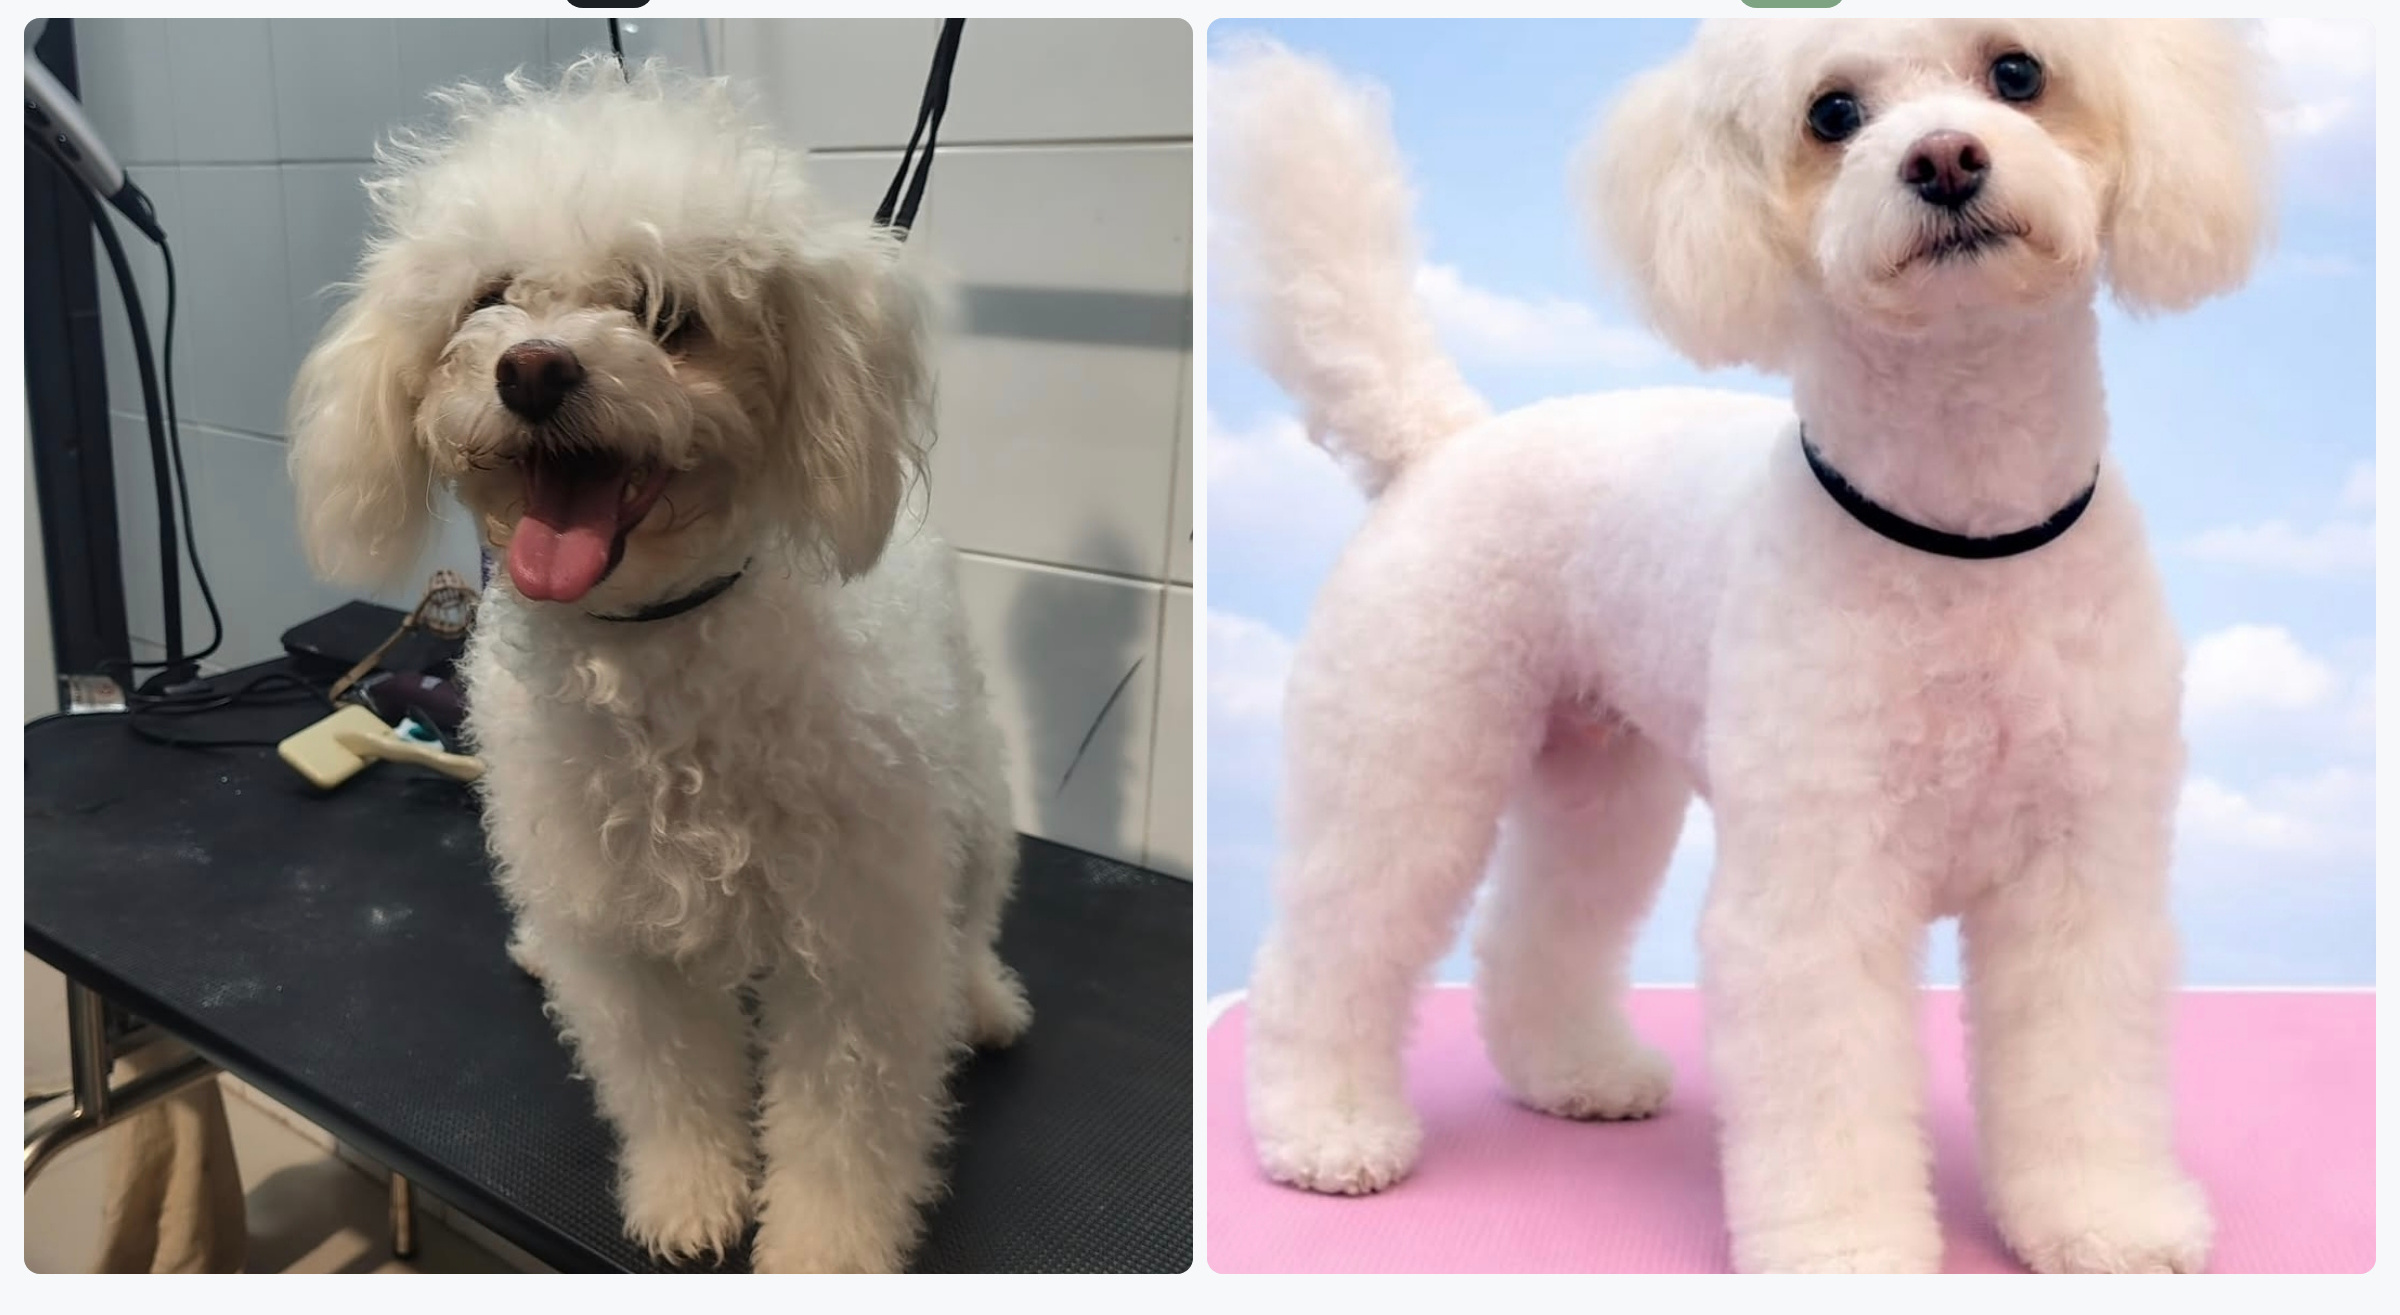
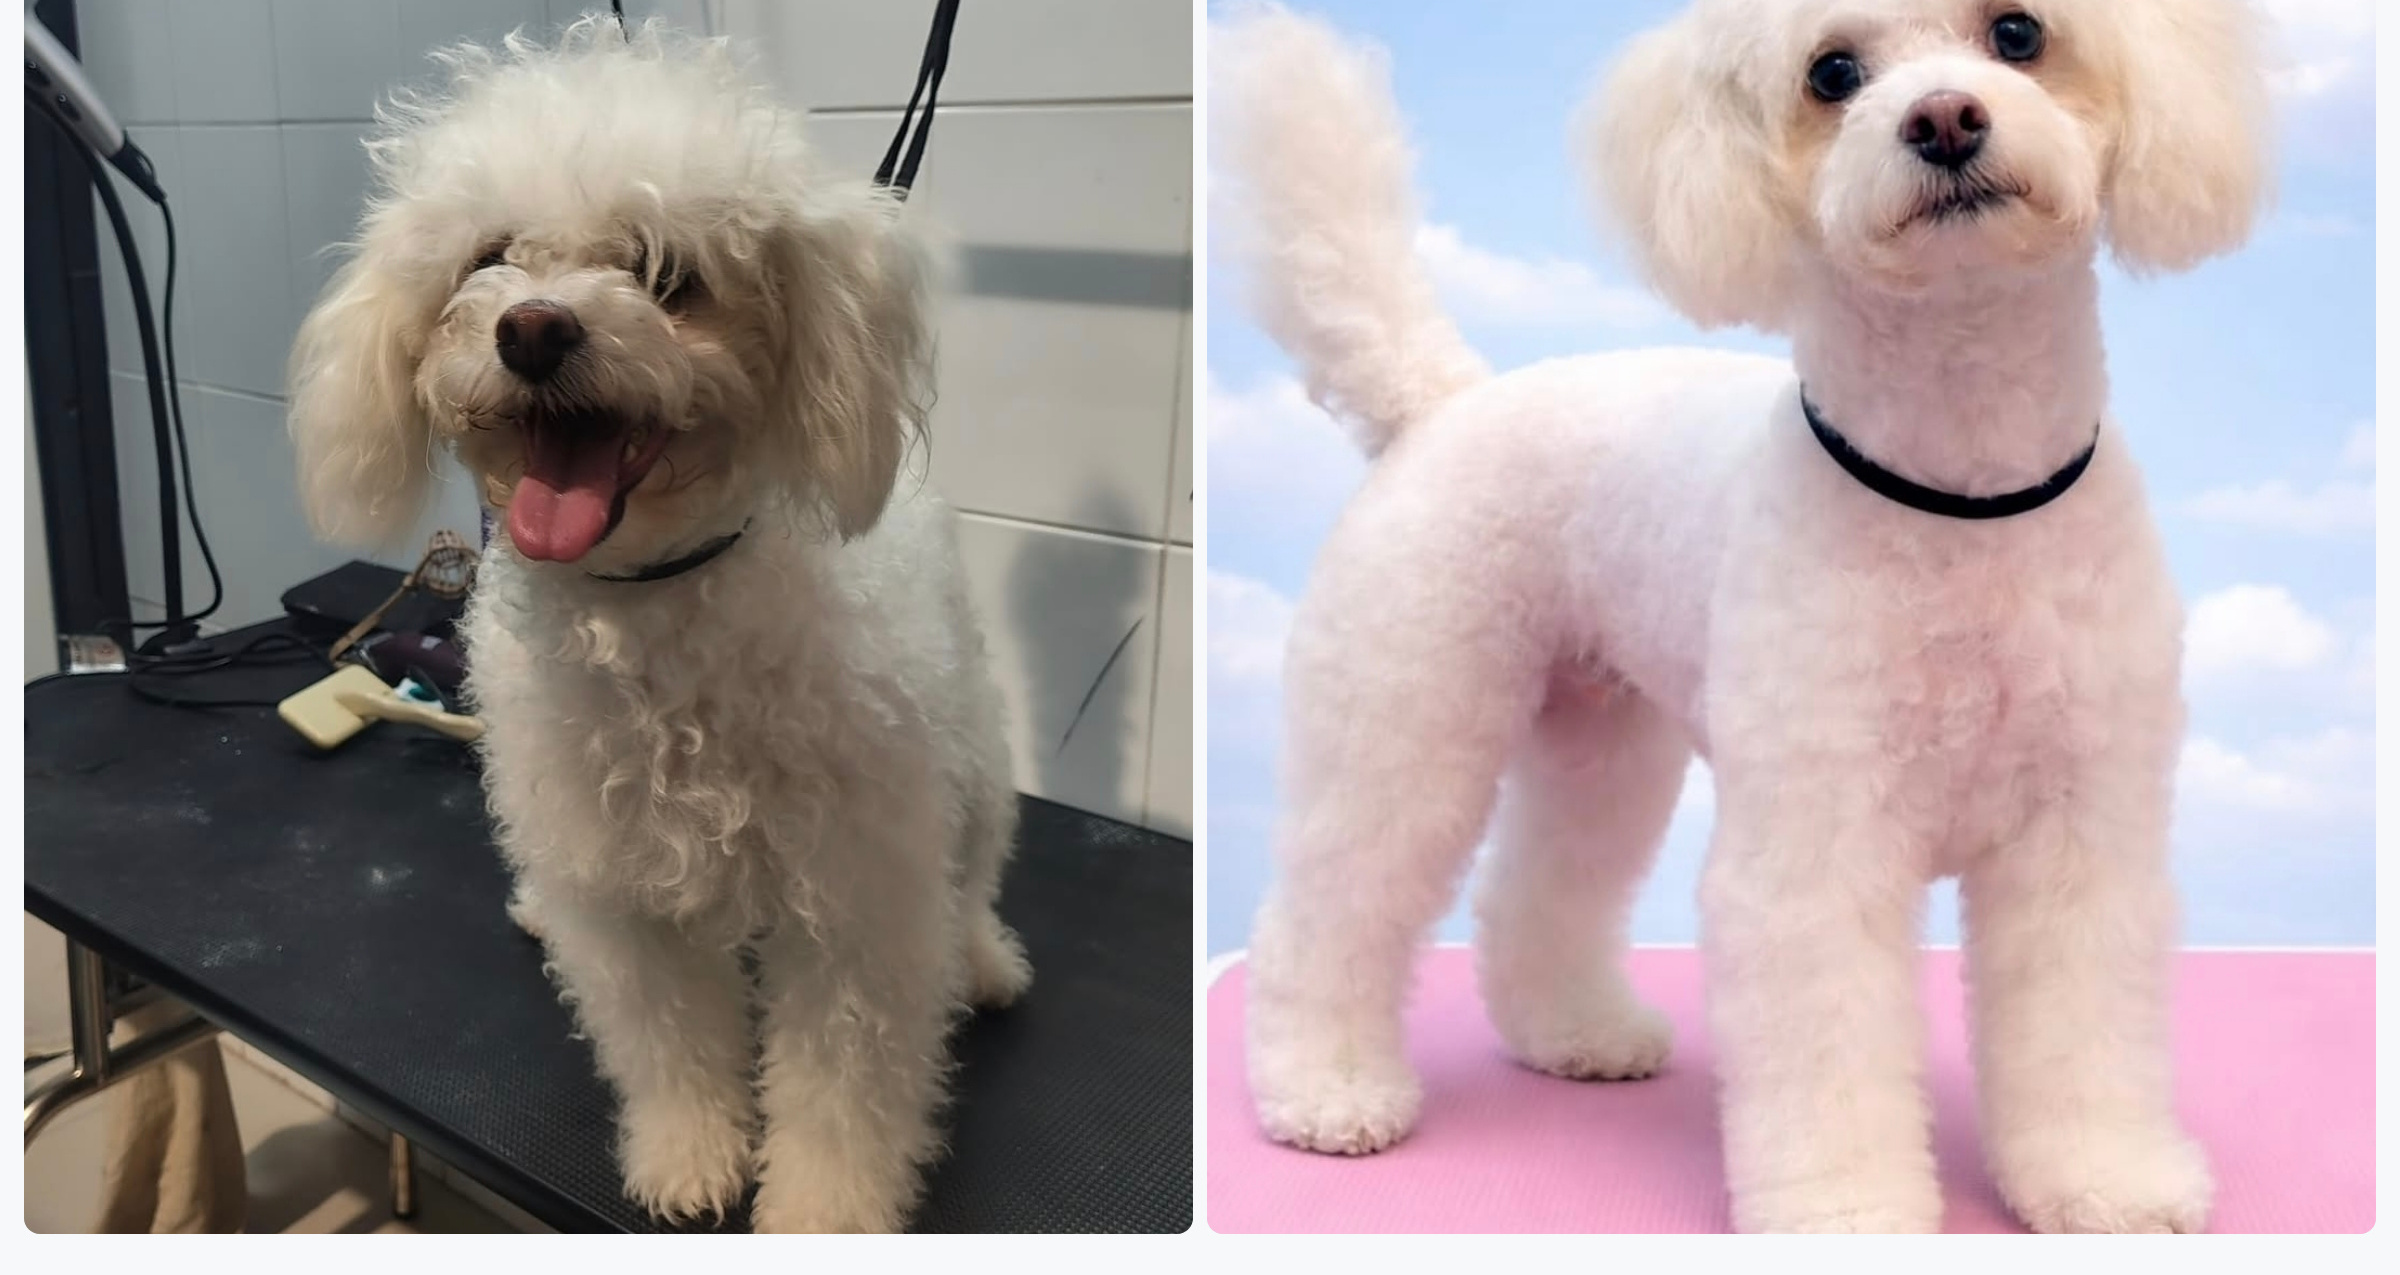
fix(carousel): crop additional 40px from image tops to remove remnant header

diff --git a/src/components/sections/BeforeAfter.tsx b/src/components/sections/BeforeAfter.tsx
@@ -28,7 +28,7 @@ export function BeforeAfter() {
 
         <div className="relative max-w-3xl mx-auto">
           <div className="overflow-hidden rounded-3xl border border-primary/5 shadow-sm">
-            <div className="relative aspect-[2400/1315] w-full">
+            <div className="relative aspect-[2400/1275] w-full">
               <Image
                 src={CASES[current].src}
                 alt={CASES[current].caption}
